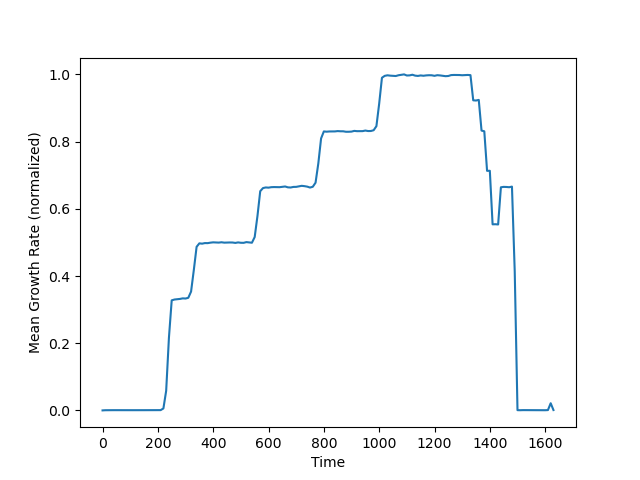
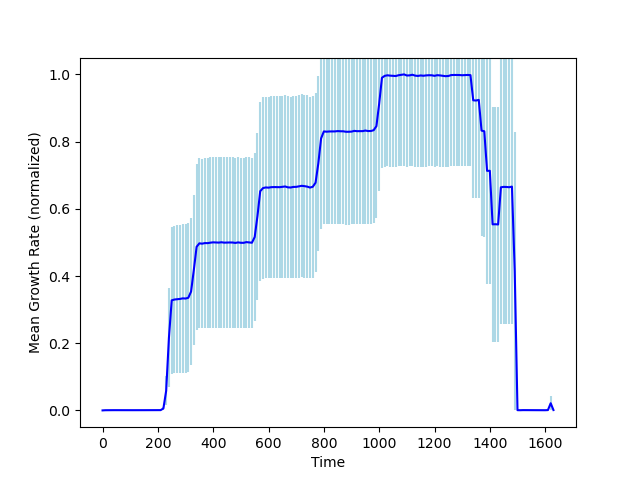
add (rough) error bars to plot and some more mangal data exploration R scripts

Changed region(s): [[0.25, 0.125, 0.875, 0.875], [0.1562, 0.8438, 0.25, 0.875]]

diff --git a/scripts/plot_experiment.py b/scripts/plot_experiment.py
@@ -7,8 +7,10 @@ def main():
     file_location = sys.argv[1]
 
     df = pd.read_csv(f'{file_location}/all_data.csv')
+    std_err = df.groupby('Time')['mean_Fitness'].sem()
     df = df.groupby('Time').mean()
-    plt.plot(df.index, df['mean_Fitness']/max(df['mean_Fitness']))
+
+    plt.errorbar(df.index, df['mean_Fitness']/max(df['mean_Fitness']), yerr=std_err/max(df['mean_Fitness']), color='blue', ecolor='lightblue')
     plt.xlabel('Time')
     plt.ylabel('Mean Growth Rate (normalized)')
     plt.savefig(f'{file_location}/graph.png')
